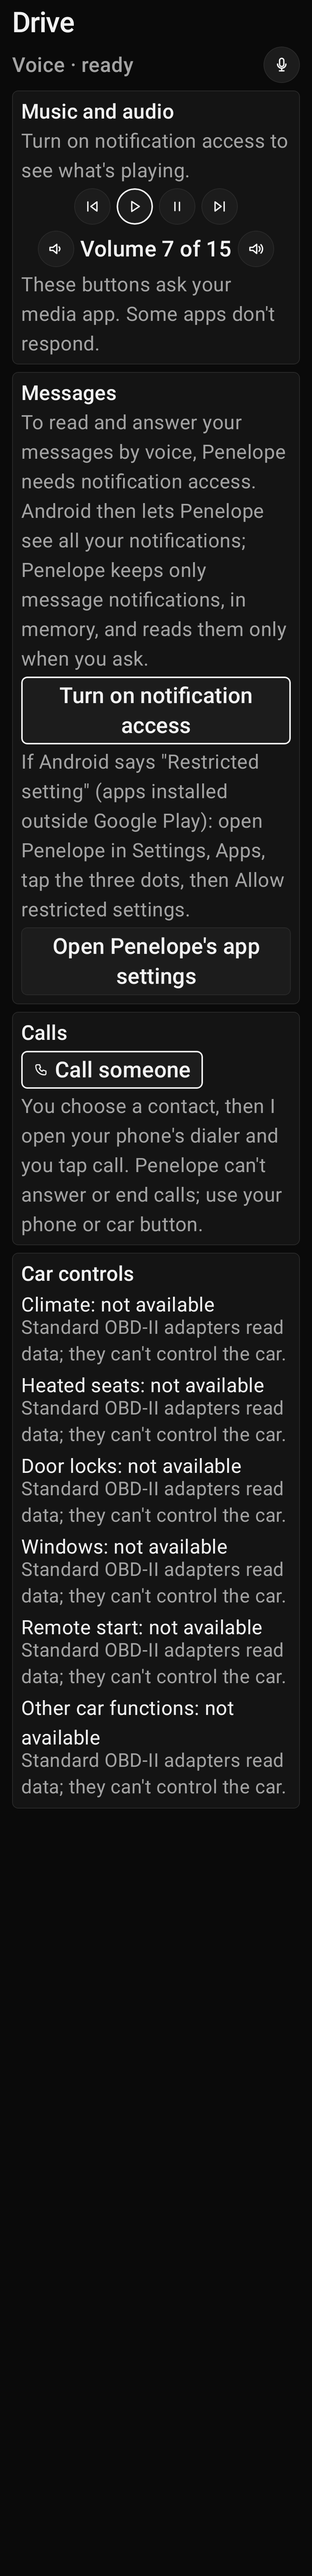
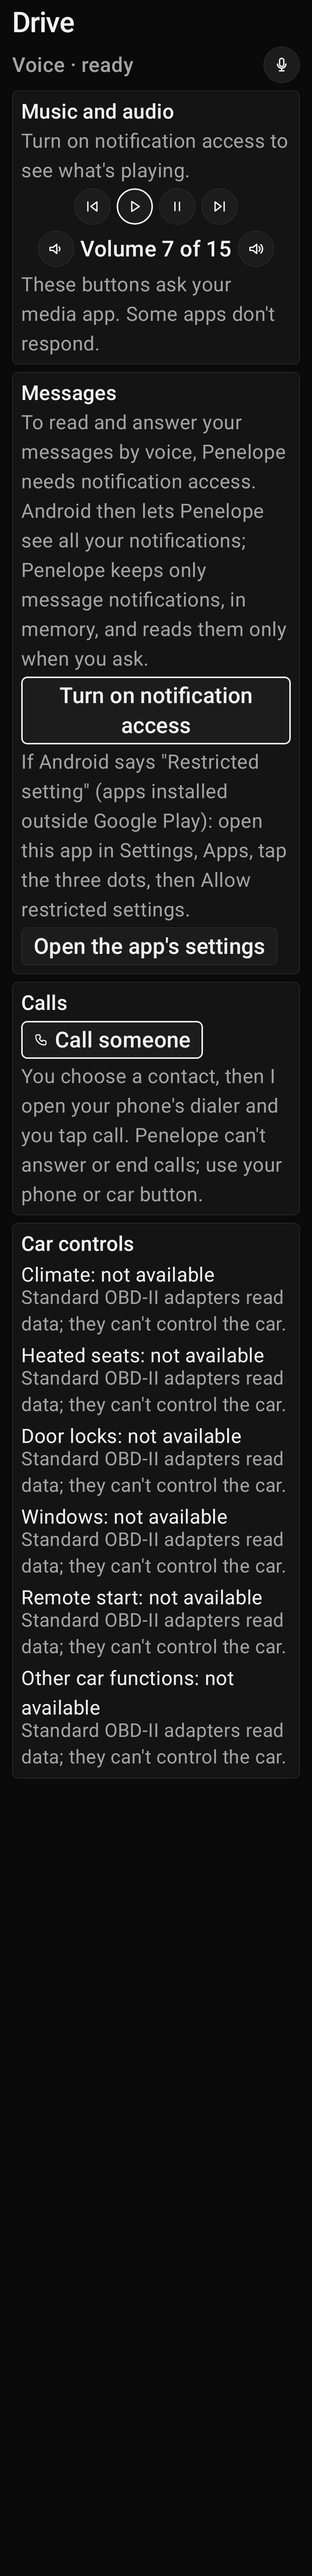
Assistant name is never hardcoded in user-visible text (owner decisions 2026-11-24)
Assistant-facing text uses the current assistant name or first person; app-facing
text is neutral. Records the three decisions; adds a regression scan test.

Claude-Session: https://claude.ai/code/session_01CrrQxWvMRMsLJ48dtPymJm

Changed region(s): [[0.0607, 0.3118, 0.9102, 0.6859], [0.091, 0.3118, 0.1214, 0.3429]]

diff --git a/app/src/main/java/com/aicarcompanion/app/ui/drive/DriveSections.kt b/app/src/main/java/com/aicarcompanion/app/ui/drive/DriveSections.kt
@@ -272,21 +272,21 @@ private fun VolumeRow(style: DriveStyle, media: MediaUiState, actions: DriveActi
 
 @OptIn(ExperimentalLayoutApi::class)
 @Composable
-fun MessagesSection(style: DriveStyle, messages: MessagesUiState, actions: DriveActions) {
+fun MessagesSection(style: DriveStyle, messages: MessagesUiState, assistantName: String, actions: DriveActions) {
     DriveCard(style) {
         DriveHeading(style, "Messages")
         when (messages) {
             MessagesUiState.NeedsAccess -> {
-                DriveBody(style, "To read and answer your messages by voice, Penelope needs notification access. Android then lets Penelope see all your notifications; Penelope keeps only message notifications, in memory, and reads them only when you ask.")
+                DriveBody(style, "To read and answer your messages by voice, $assistantName needs notification access. Android then lets $assistantName see all your notifications; $assistantName keeps only message notifications, in memory, and reads them only when you ask.")
                 DriveButton(style, "Turn on notification access", actions.onOpenNotificationAccess, emphasized = true)
-                DriveBody(style, "If Android says \"Restricted setting\" (apps installed outside Google Play): open Penelope in Settings, Apps, tap the three dots, then Allow restricted settings.")
-                DriveButton(style, "Open Penelope's app settings", actions.onOpenAppSettings)
+                DriveBody(style, "If Android says \"Restricted setting\" (apps installed outside Google Play): open this app in Settings, Apps, tap the three dots, then Allow restricted settings.")
+                DriveButton(style, "Open the app's settings", actions.onOpenAppSettings)
             }
             MessagesUiState.NotConnected -> {
-                DriveBody(style, "I can't see your notifications right now. Notification access is on, but Android hasn't connected Penelope. Open this screen again to reconnect, or switch notification access off and on.")
+                DriveBody(style, "I can't see your notifications right now. Notification access is on, but Android hasn't connected this app. Open this screen again to reconnect, or switch notification access off and on.")
                 DriveButton(style, "Open notification access", actions.onOpenNotificationAccess, emphasized = true)
             }
-            MessagesUiState.None -> DriveBody(style, "No new messages. Penelope reads messages only when you ask, and can reply only to ones still in your notifications.")
+            MessagesUiState.None -> DriveBody(style, "No new messages. $assistantName reads messages only when you ask, and can reply only to ones still in your notifications.")
             is MessagesUiState.Unread -> {
                 val count = if (messages.count == 1) "1 new message" else "${messages.count} new messages"
                 Text(count, style = MaterialTheme.typography.titleMedium, color = style.primary)
@@ -304,15 +304,15 @@ fun MessagesSection(style: DriveStyle, messages: MessagesUiState, actions: Drive
 }
 
 @Composable
-fun CallsSection(style: DriveStyle, calls: CallsUiState, actions: DriveActions) {
+fun CallsSection(style: DriveStyle, calls: CallsUiState, assistantName: String, actions: DriveActions) {
     DriveCard(style) {
         DriveHeading(style, "Calls")
         when (calls) {
             CallsUiState.DIAL_HANDOFF -> {
                 DriveButton(style, "Call someone", actions.onPickContact, icon = DriveIcons.Phone, description = "Call someone. Choose a contact", emphasized = true)
-                DriveBody(style, "You choose a contact, then I open your phone's dialer and you tap call. Penelope can't answer or end calls; use your phone or car button.")
+                DriveBody(style, "You choose a contact, then I open your phone's dialer and you tap call. $assistantName can't answer or end calls; use your phone or car button.")
             }
-            CallsUiState.NO_DIALER -> DriveBody(style, "This phone has no dialer app Penelope can open. Use your phone or car controls to call.")
+            CallsUiState.NO_DIALER -> DriveBody(style, "This phone has no dialer app I can open. Use your phone or car controls to call.")
         }
     }
 }
@@ -320,7 +320,7 @@ fun CallsSection(style: DriveStyle, calls: CallsUiState, actions: DriveActions) 
 /** The on-screen half of the confirmation: the same state the voice flow uses. */
 @OptIn(ExperimentalLayoutApi::class)
 @Composable
-fun ConfirmationCard(style: DriveStyle, pending: PendingAction, actions: DriveActions, busy: Boolean = false) {
+fun ConfirmationCard(style: DriveStyle, pending: PendingAction, assistantName: String, actions: DriveActions, busy: Boolean = false) {
     DriveCard(style, Modifier.semantics { liveRegion = LiveRegionMode.Polite }) {
         when (pending) {
             is PendingAction.Reply -> {
@@ -334,7 +334,7 @@ fun ConfirmationCard(style: DriveStyle, pending: PendingAction, actions: DriveAc
                 val who = pending.groupTitle?.let { "Group $it" } ?: "To ${pending.recipient}"
                 DriveBody(style, "$who${pending.appName?.let { " in $it" }.orEmpty()}", strong = true)
                 Text("“${pending.text}”", style = MaterialTheme.typography.titleMedium, color = style.primary)
-                DriveBody(style, "Penelope hands this to ${pending.appName ?: "the messaging app"}; it can't promise it arrives.")
+                DriveBody(style, "$assistantName hands this to ${pending.appName ?: "the messaging app"}; it can't promise it arrives.")
                 FlowRow(horizontalArrangement = Arrangement.spacedBy(8.dp), verticalArrangement = Arrangement.spacedBy(8.dp)) {
                     DriveButton(style, "Send", actions.onConfirm, description = "Send reply to ${pending.groupTitle ?: pending.recipient}", emphasized = true, enabled = !busy)
                     DriveButton(style, "Cancel", actions.onCancel, description = "Cancel, don't send", enabled = !busy)
@@ -356,7 +356,7 @@ fun ConfirmationCard(style: DriveStyle, pending: PendingAction, actions: DriveAc
 
 /** Car controls: every one is unavailable and says why. Rows are plain text, never buttons. */
 @Composable
-fun VehicleControlsSection(style: DriveStyle, rows: List<VehicleControlRow>) {
+fun VehicleControlsSection(style: DriveStyle, rows: List<VehicleControlRow>, assistantName: String) {
     if (style.isAdvanced) {
         DriveCard(style) {
             DriveHeading(style, "Car controls")
@@ -390,7 +390,7 @@ fun VehicleControlsSection(style: DriveStyle, rows: List<VehicleControlRow>) {
         }
         if (expanded) {
             rows.firstOrNull()?.let { DriveBody(style, it.reason.explanation) }
-            DriveBody(style, "Climate, heated seats and door locks: ${rows.joinToString { it.feature.label.lowercase() }}. None can be controlled from Penelope.")
+            DriveBody(style, "Climate, heated seats and door locks: ${rows.joinToString { it.feature.label.lowercase() }}. None can be controlled from this app.")
         }
     }
 }

diff --git a/app/src/test/java/com/aicarcompanion/app/ui/drive/DriveUiTest.kt b/app/src/test/java/com/aicarcompanion/app/ui/drive/DriveUiTest.kt
@@ -45,10 +45,11 @@ class DriveUiTest {
         actions: DriveActions = DriveActions(),
         theme: ThemeMode = ThemeMode.DARK,
         fontScale: Float = 1f,
+        assistantName: String = "Penelope",
     ) = compose.setContent {
         CarCompanionTheme(themeMode = theme, reduceMotion = true) {
             CompositionLocalProvider(LocalDensity provides Density(LocalDensity.current.density, fontScale)) {
-                DriveContent(ui, level, "Penelope", actions, PaddingValues())
+                DriveContent(ui, level, assistantName, actions, PaddingValues())
             }
         }
     }
@@ -109,6 +110,27 @@ class DriveUiTest {
     @Test fun `the setup text says Android lets Penelope see all notifications and Penelope keeps only messages`() {
         show(DriveFixtures.needsAccess, ExplanationLevel.EVERYDAY)
         compose.onNodeWithText("see all your notifications", substring = true).performScrollTo().assertIsDisplayed()
+    }
+
+    @Test fun `a custom assistant name replaces Penelope in the messages, calls and confirmation text`() {
+        show(DriveFixtures.needsAccess, ExplanationLevel.EVERYDAY, assistantName = "Jarvis")
+        compose.onNodeWithText("Jarvis needs notification access", substring = true).performScrollTo().assertIsDisplayed()
+        compose.onNodeWithText("Jarvis keeps only message notifications", substring = true).assertExists()
+        compose.onNodeWithText("Open the app's settings").assertExists()
+        assertEquals(0, compose.onAllNodesWithText("Penelope", substring = true).fetchSemanticsNodes().size)
+    }
+
+    @Test fun `a custom name shows in the no-messages and calls text`() {
+        show(DriveFixtures.playing.copy(messages = MessagesUiState.None), ExplanationLevel.EVERYDAY, assistantName = "Jarvis")
+        compose.onNodeWithText("No new messages. Jarvis reads messages only when you ask", substring = true).performScrollTo().assertExists()
+        compose.onNodeWithText("Jarvis can't answer or end calls", substring = true).performScrollTo().assertExists()
+        assertEquals(0, compose.onAllNodesWithText("Penelope", substring = true).fetchSemanticsNodes().size)
+    }
+
+    @Test fun `a custom name shows in the send confirmation`() {
+        show(DriveFixtures.confirmReply, ExplanationLevel.EVERYDAY, assistantName = "Jarvis")
+        compose.onNodeWithText("Jarvis hands this to Messages", substring = true).performScrollTo().assertExists()
+        assertEquals(0, compose.onAllNodesWithText("Penelope", substring = true).fetchSemanticsNodes().size)
     }
 
     @Test fun `buttons are disabled while a confirmation is being carried out`() {

diff --git a/app/src/test/java/com/aicarcompanion/app/regression/NoHardcodedAssistantNameTest.kt b/app/src/test/java/com/aicarcompanion/app/regression/NoHardcodedAssistantNameTest.kt
@@ -1,0 +1,40 @@
+package com.aicarcompanion.app.regression
+
+import org.junit.Assert.assertTrue
+import org.junit.Test
+import java.io.File
+
+/**
+ * Owner decision 2026-11-24: the app isn't officially named and the assistant's name is whatever the user
+ * chooses, so no user-visible text may hardcode "Penelope". Text from the assistant is first person or takes
+ * the current name; text about the app says "this app".
+ */
+class NoHardcodedAssistantNameTest {
+    private val mainDir = listOf(File("src/main"), File("app/src/main")).first { it.isDirectory }
+
+    /** String literals that may contain the word: the default profile definition and the default-name constant. */
+    private val allowedFiles = setOf("AssistantProfile.kt")
+    private fun allowedLine(line: String) = "TAG" in line || "DEFAULT_ASSISTANT_NAME" in line
+
+    private val literal = Regex("\"(?:[^\"\\\\\\n]|\\\\.)*\"")
+    private fun hasPenelopeLiteral(line: String) = literal.findAll(line).any { "Penelope" in it.value }
+
+    @Test fun `no Kotlin string literal in app main hardcodes Penelope`() {
+        val offenders = File(mainDir, "java").walkTopDown().filter { it.extension == "kt" && it.name !in allowedFiles }.flatMap { f ->
+            f.readLines().mapIndexedNotNull { i, line ->
+                val code = line.trim()
+                if (code.startsWith("//") || code.startsWith("*") || code.startsWith("/*")) return@mapIndexedNotNull null
+                if (allowedLine(line)) return@mapIndexedNotNull null
+                if (hasPenelopeLiteral(line)) "${f.name}:${i + 1}" else null
+            }
+        }.toList()
+        assertTrue("User-visible text must not hardcode the assistant name: $offenders", offenders.isEmpty())
+    }
+
+    @Test fun `no resource string hardcodes Penelope`() {
+        val offenders = File(mainDir, "res").walkTopDown().filter { it.extension == "xml" && "values" in it.parentFile.name }.flatMap { f ->
+            f.readLines().mapIndexedNotNull { i, line -> if (line.contains("Penelope") && !line.trim().startsWith("<!--")) "${f.name}:${i + 1}" else null }
+        }.toList()
+        assertTrue("Resource strings must not hardcode the assistant name: $offenders", offenders.isEmpty())
+    }
+}

diff --git a/app/src/main/java/com/aicarcompanion/app/handsfree/HandsFree.kt b/app/src/main/java/com/aicarcompanion/app/handsfree/HandsFree.kt
@@ -28,12 +28,12 @@ enum class HandsFreeCapability(val spokenName: String) {
  * Android and iOS, and some may never be possible on one of them. See docs/HANDS_FREE.md.
  */
 enum class PlatformRequirement(val description: String) {
-    NOTIFICATION_ACCESS("Turn on notification access for Penelope in system settings"),
-    CALL_PERMISSION("Allow Penelope to make and manage phone calls"),
-    CONTACTS_PERMISSION("Allow Penelope to look up your contacts"),
-    DEFAULT_DIALER_ROLE("Make Penelope the default phone app (not planned)"),
+    NOTIFICATION_ACCESS("Turn on notification access for this app in system settings"),
+    CALL_PERMISSION("Allow this app to make and manage phone calls"),
+    CONTACTS_PERMISSION("Allow this app to look up your contacts"),
+    DEFAULT_DIALER_ROLE("Make this app the default phone app (not planned)"),
     /** Access is on, but Android hasn't connected Penelope's notification listener (yet). */
-    NOTIFICATION_LISTENER_CONNECTION("Reconnect Penelope's notification link: open the Drive screen, or switch notification access off and on in system settings"),
+    NOTIFICATION_LISTENER_CONNECTION("Reconnect the notification link: open the Drive screen, or switch notification access off and on in system settings"),
     USER_CONFIRMATION_PER_ACTION("The system asks you to confirm each action"),
 }
 

diff --git a/app/src/test/java/com/aicarcompanion/app/handsfree/HandsFreeDriveRoutingTest.kt b/app/src/test/java/com/aicarcompanion/app/handsfree/HandsFreeDriveRoutingTest.kt
@@ -37,6 +37,22 @@ class HandsFreeDriveRoutingTest {
 
     private suspend fun say(text: String, access: Boolean = true) = provider(access).respond(AssistantRequest(text, "Penelope"))
 
+    @Test fun `replies never hardcode Penelope when the user renamed the assistant`() = runTest {
+        suspend fun jarvis(text: String, access: Boolean) = provider(access).respond(AssistantRequest(text, "Jarvis"))
+        val replies = listOf(
+            jarvis("read my messages", false).text,
+            jarvis("call Sam", false).text,
+            jarvis("unlock the doors", true).text,
+        )
+        replies.forEach { assertFalse(it, it.contains("Penelope")) }
+        PlatformRequirement.entries.forEach { assertFalse(it.description.contains("Penelope")) }
+        HandsFreeCapability.entries.forEach { c ->
+            listOf(CapabilityStatus.NotImplemented, CapabilityStatus.NotSupported).forEach {
+                assertFalse(HandsFreeSafety.unavailableReply(c, it).contains("Penelope"))
+            }
+        }
+    }
+
     @Test fun `media commands ask the media app and say so honestly`() = runTest {
         assertEquals("I asked your media app to pause.", say("pause the music").text)
         assertEquals("I asked your media app to play.", say("play some music").text)

diff --git a/app/src/main/java/com/aicarcompanion/app/vin/VinFlowText.kt b/app/src/main/java/com/aicarcompanion/app/vin/VinFlowText.kt
@@ -40,9 +40,9 @@ object VinFlowText {
         "I changed $count character${if (count == 1) "" else "s"} that can't appear in a VIN (the letters I, O and Q look like 1 and 0)."
 
     const val PERMISSION_NEEDED =
-        "To scan, Penelope needs to use the camera. The picture stays on your phone, is never saved or sent anywhere, and the camera is only on while this screen is open."
+        "To scan, I need to use the camera. The picture stays on your phone, is never saved or sent anywhere, and the camera is only on while this screen is open."
     const val PERMISSION_BLOCKED =
-        "Camera access is turned off for Penelope. You can turn it on in your phone's settings, or just type your VIN."
+        "Camera access is turned off for this app. You can turn it on in your phone's settings, or just type your VIN."
     const val NO_CAMERA = "I couldn't start the camera. You can type your VIN instead."
 
     /** The VIN in groups, easier to compare by eye: "WBAFR1C5 6BC 000001". */

diff --git a/app/src/main/java/com/aicarcompanion/app/ui/drive/DriveScreen.kt b/app/src/main/java/com/aicarcompanion/app/ui/drive/DriveScreen.kt
@@ -112,12 +112,12 @@ fun DriveContent(ui: DriveUiState, level: ExplanationLevel, assistantName: Strin
             modifier = Modifier.semantics { heading() },
         )
         VoiceBar(style, ui.voice, ui.conversationActive, ui.micLevel, assistantName, actions)
-        ui.pending?.let { ConfirmationCard(style, it, actions, ui.confirming) }
+        ui.pending?.let { ConfirmationCard(style, it, assistantName, actions, ui.confirming) }
         MediaSection(style, ui.media, actions, ui.notice)
-        MessagesSection(style, ui.messages, actions)
-        CallsSection(style, ui.calls, actions)
+        MessagesSection(style, ui.messages, assistantName, actions)
+        CallsSection(style, ui.calls, assistantName, actions)
         if (level == ExplanationLevel.DIY) HealthShortcuts(style, ui.health, actions)
-        VehicleControlsSection(style, ui.vehicleControls)
+        VehicleControlsSection(style, ui.vehicleControls, assistantName)
     }
 }
 

diff --git a/app/src/main/java/com/aicarcompanion/app/ui/adapter/AdapterScreen.kt b/app/src/main/java/com/aicarcompanion/app/ui/adapter/AdapterScreen.kt
@@ -263,7 +263,7 @@ fun describe(state: ObdConnectionState): Pair<String, String> = when (state) {
     is ObdConnectionState.Connected -> when (com.aicarcompanion.app.diagnostics.obd.VehicleLinkStage.of(state)) {
         com.aicarcompanion.app.diagnostics.obd.VehicleLinkStage.VEHICLE_CONNECTED -> "Vehicle connected" to "${state.adapterName} is connected and your car is responding."
         com.aicarcompanion.app.diagnostics.obd.VehicleLinkStage.DEGRADED, com.aicarcompanion.app.diagnostics.obd.VehicleLinkStage.RECOVERING ->
-            "Recovering connection" to "Your car stopped answering for a moment. Penelope is re-checking it automatically."
+            "Recovering connection" to "Your car stopped answering for a moment. I'm re-checking it automatically."
         else -> "Adapter connected" to
             "${state.adapterName} is connected, but your car isn't responding. Turn the ignition on, then tap \"Check vehicle again\"."
     }

diff --git a/app/src/main/java/com/aicarcompanion/app/connectivity/ConnectionLog.kt b/app/src/main/java/com/aicarcompanion/app/connectivity/ConnectionLog.kt
@@ -48,7 +48,7 @@ class ConnectionLog(private val capacity: Int = 300, private val now: () -> Inst
 
     /** Plain-text export for the Copy button. Already redacted. */
     fun export(zone: ZoneId = ZoneId.systemDefault()): String = buildString {
-        appendLine("Penelope connection log (VINs, hardware addresses and keys removed)")
+        appendLine("Connection log (VINs, hardware addresses and keys removed)")
         _events.value.forEach { e ->
             append(TIME.format(e.at.atZone(zone))).append("  ").append(e.area.label.padEnd(8)).append(e.event)
             if (e.details.isNotEmpty()) append("  ").append(e.details.entries.joinToString(", ") { "${it.key}=${it.value}" })

diff --git a/app/src/main/java/com/aicarcompanion/app/data/local/Settings.kt b/app/src/main/java/com/aicarcompanion/app/data/local/Settings.kt
@@ -23,7 +23,7 @@ enum class ExplanationLevel(val label: String, val description: String) {
     ADVANCED("Advanced / professional", "Technical terms, code definitions and all available live data."),
 }
 
-enum class ThemeMode(val label: String) { SYSTEM("Match phone"), LIGHT("Light"), DARK("Dark (Penelope default)") }
+enum class ThemeMode(val label: String) { SYSTEM("Match phone"), LIGHT("Light"), DARK("Dark (default)") }
 
 /** Accent color family. Independent of [ThemeMode]: each style has a dark and a light version. */
 enum class ColorStyle(val label: String, val description: String) {

diff --git a/app/src/main/java/com/aicarcompanion/app/ui/settings/PersonalizationSection.kt b/app/src/main/java/com/aicarcompanion/app/ui/settings/PersonalizationSection.kt
@@ -329,7 +329,7 @@ private fun ResetButton(onReset: () -> Unit) {
             title = { Text("Reset personalization?") },
             text = {
                 Text(
-                    "This sets the personality back to Penelope, the voice to match the personality, removes your custom name " +
+                    "This sets the personality back to the default, the voice to match the personality, removes your custom name " +
                         "and returns speed and pitch to natural. Your detail level and other settings aren't changed.",
                 )
             },

diff --git a/app/src/test/java/com/aicarcompanion/app/ui/VinFlowUiTest.kt b/app/src/test/java/com/aicarcompanion/app/ui/VinFlowUiTest.kt
@@ -157,7 +157,7 @@ class VinFlowUiTest {
     @Test fun `first-time camera permission offers Allow and still offers typing`() {
         var asked = false
         scan(CameraAccess.NotAsked, onRequest = { asked = true })
-        compose.onNodeWithText("needs to use the camera", substring = true).assertIsDisplayed()
+        compose.onNodeWithText("I need to use the camera", substring = true).assertIsDisplayed()
         compose.onNodeWithText("Allow camera").performClick()
         assertTrue(asked)
         compose.onNodeWithText("Type my VIN instead").assertIsDisplayed()
